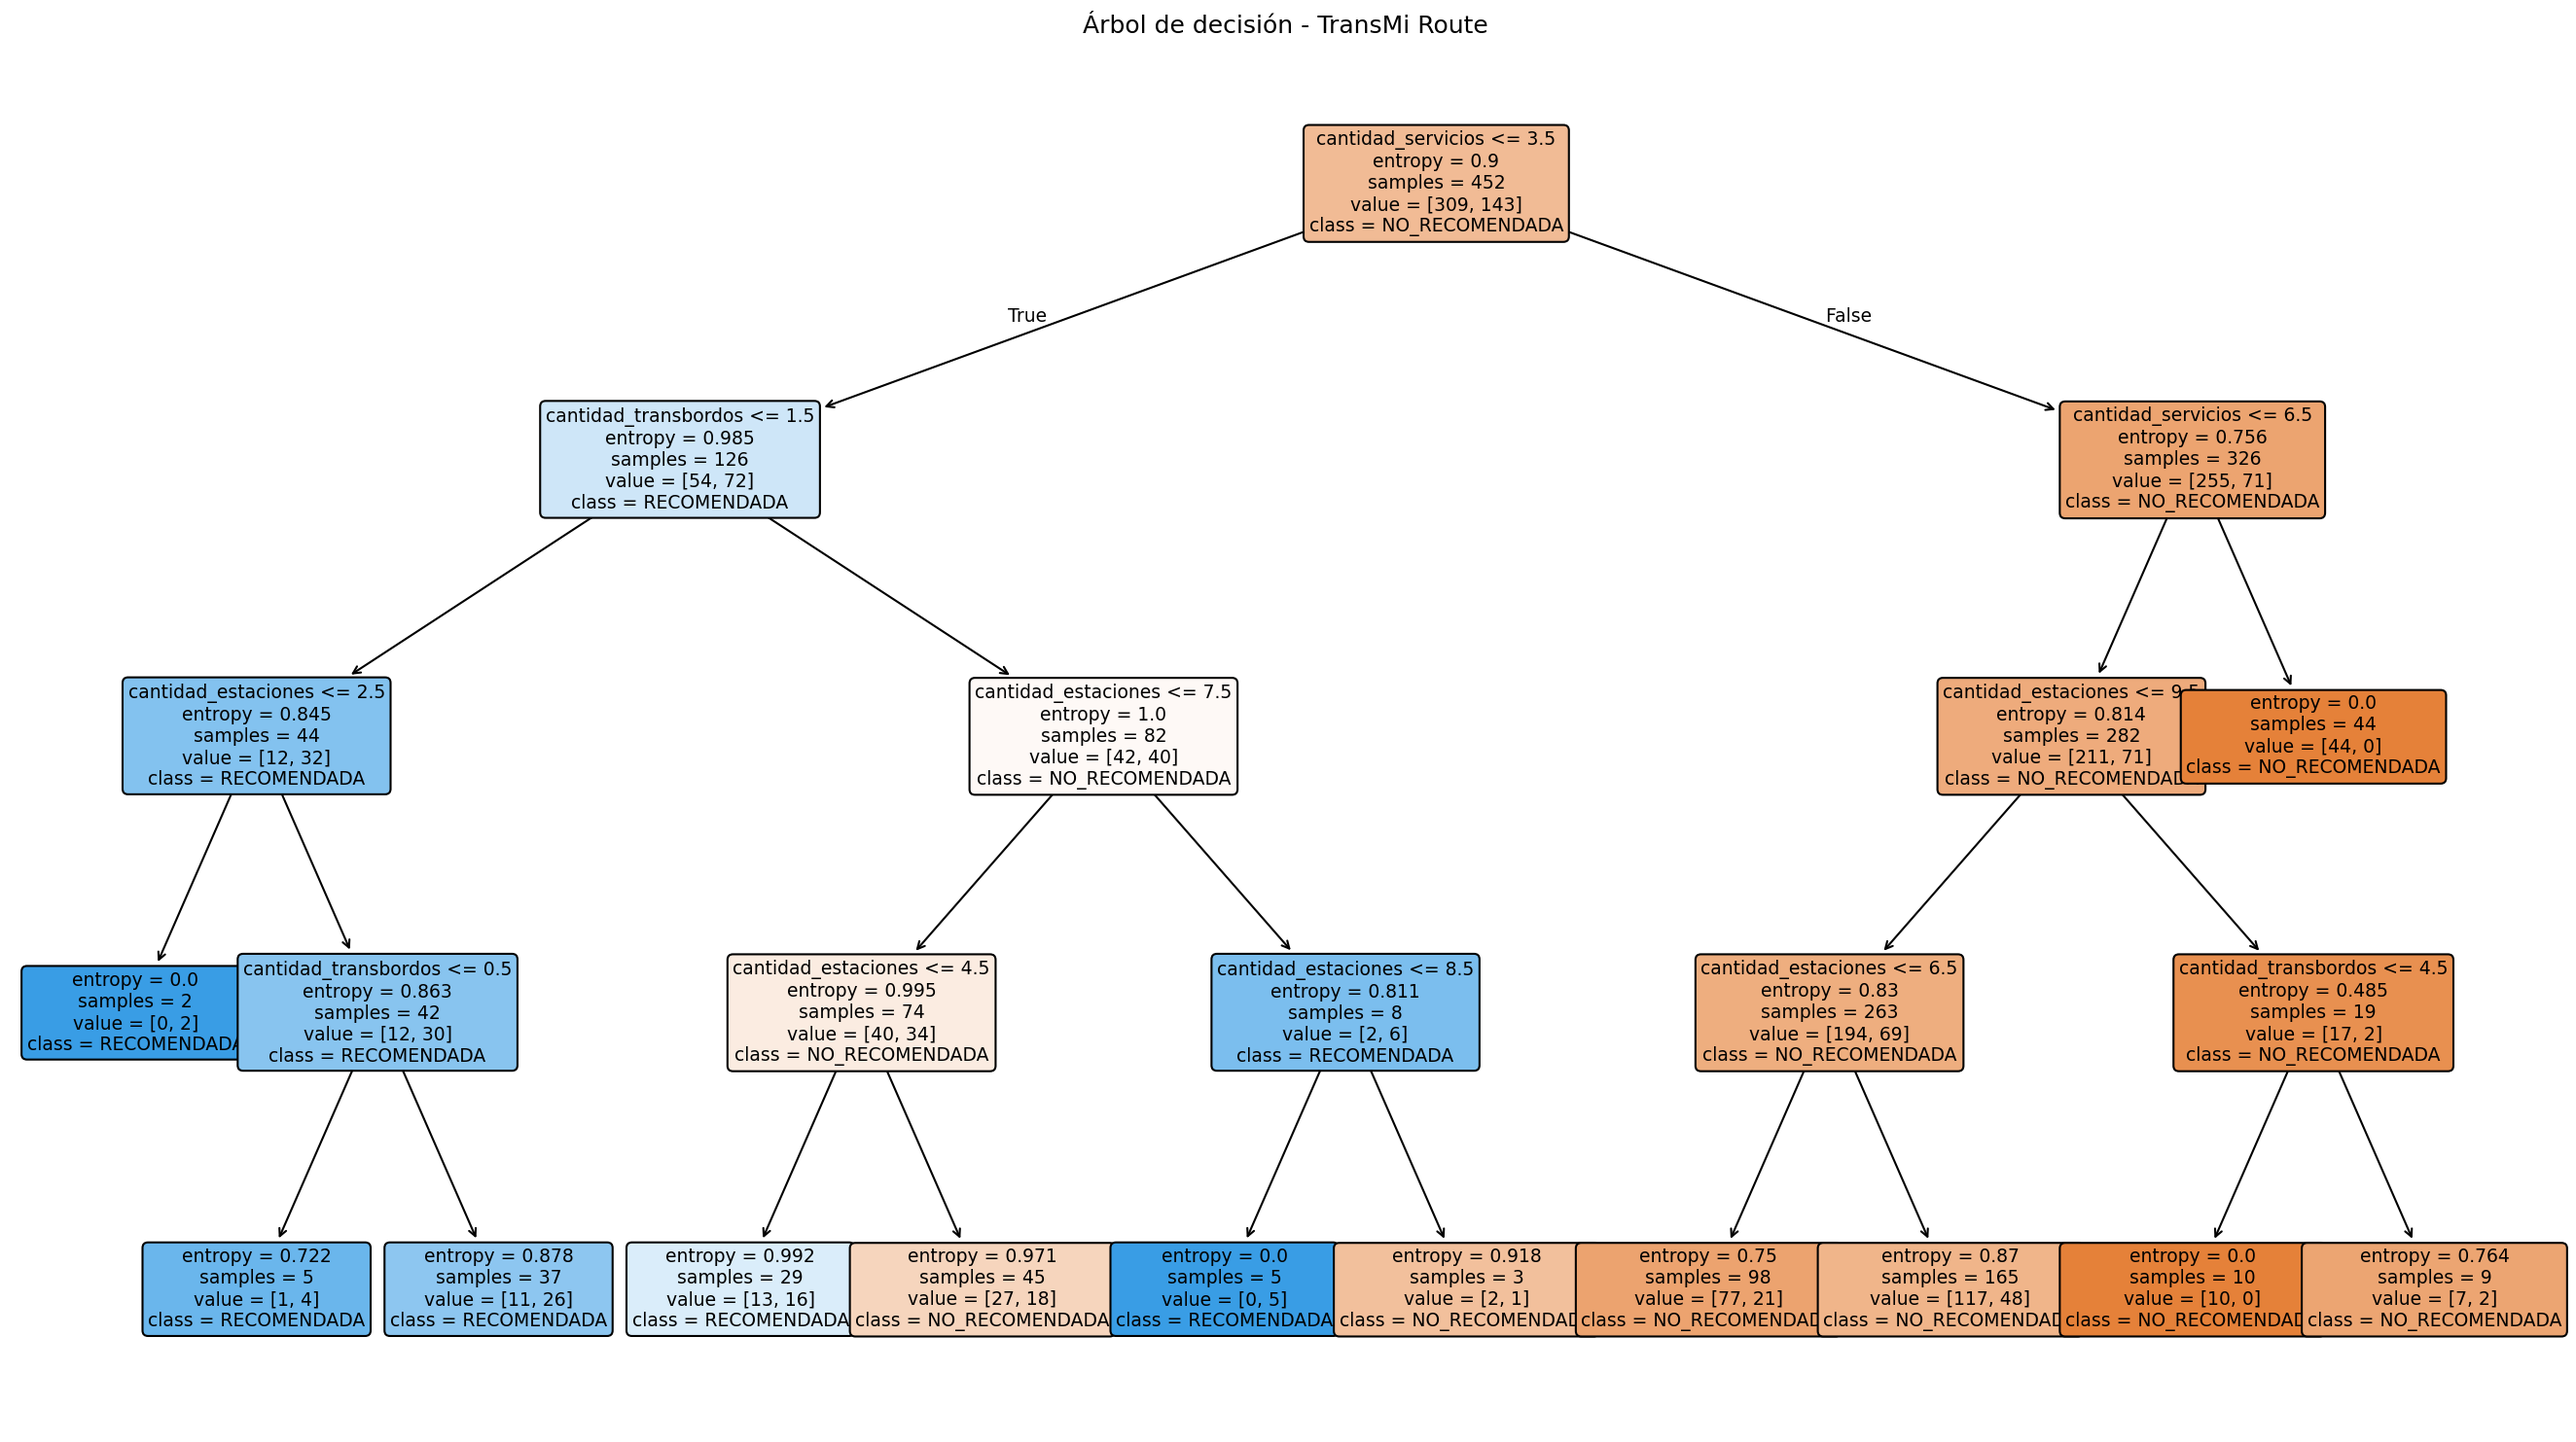
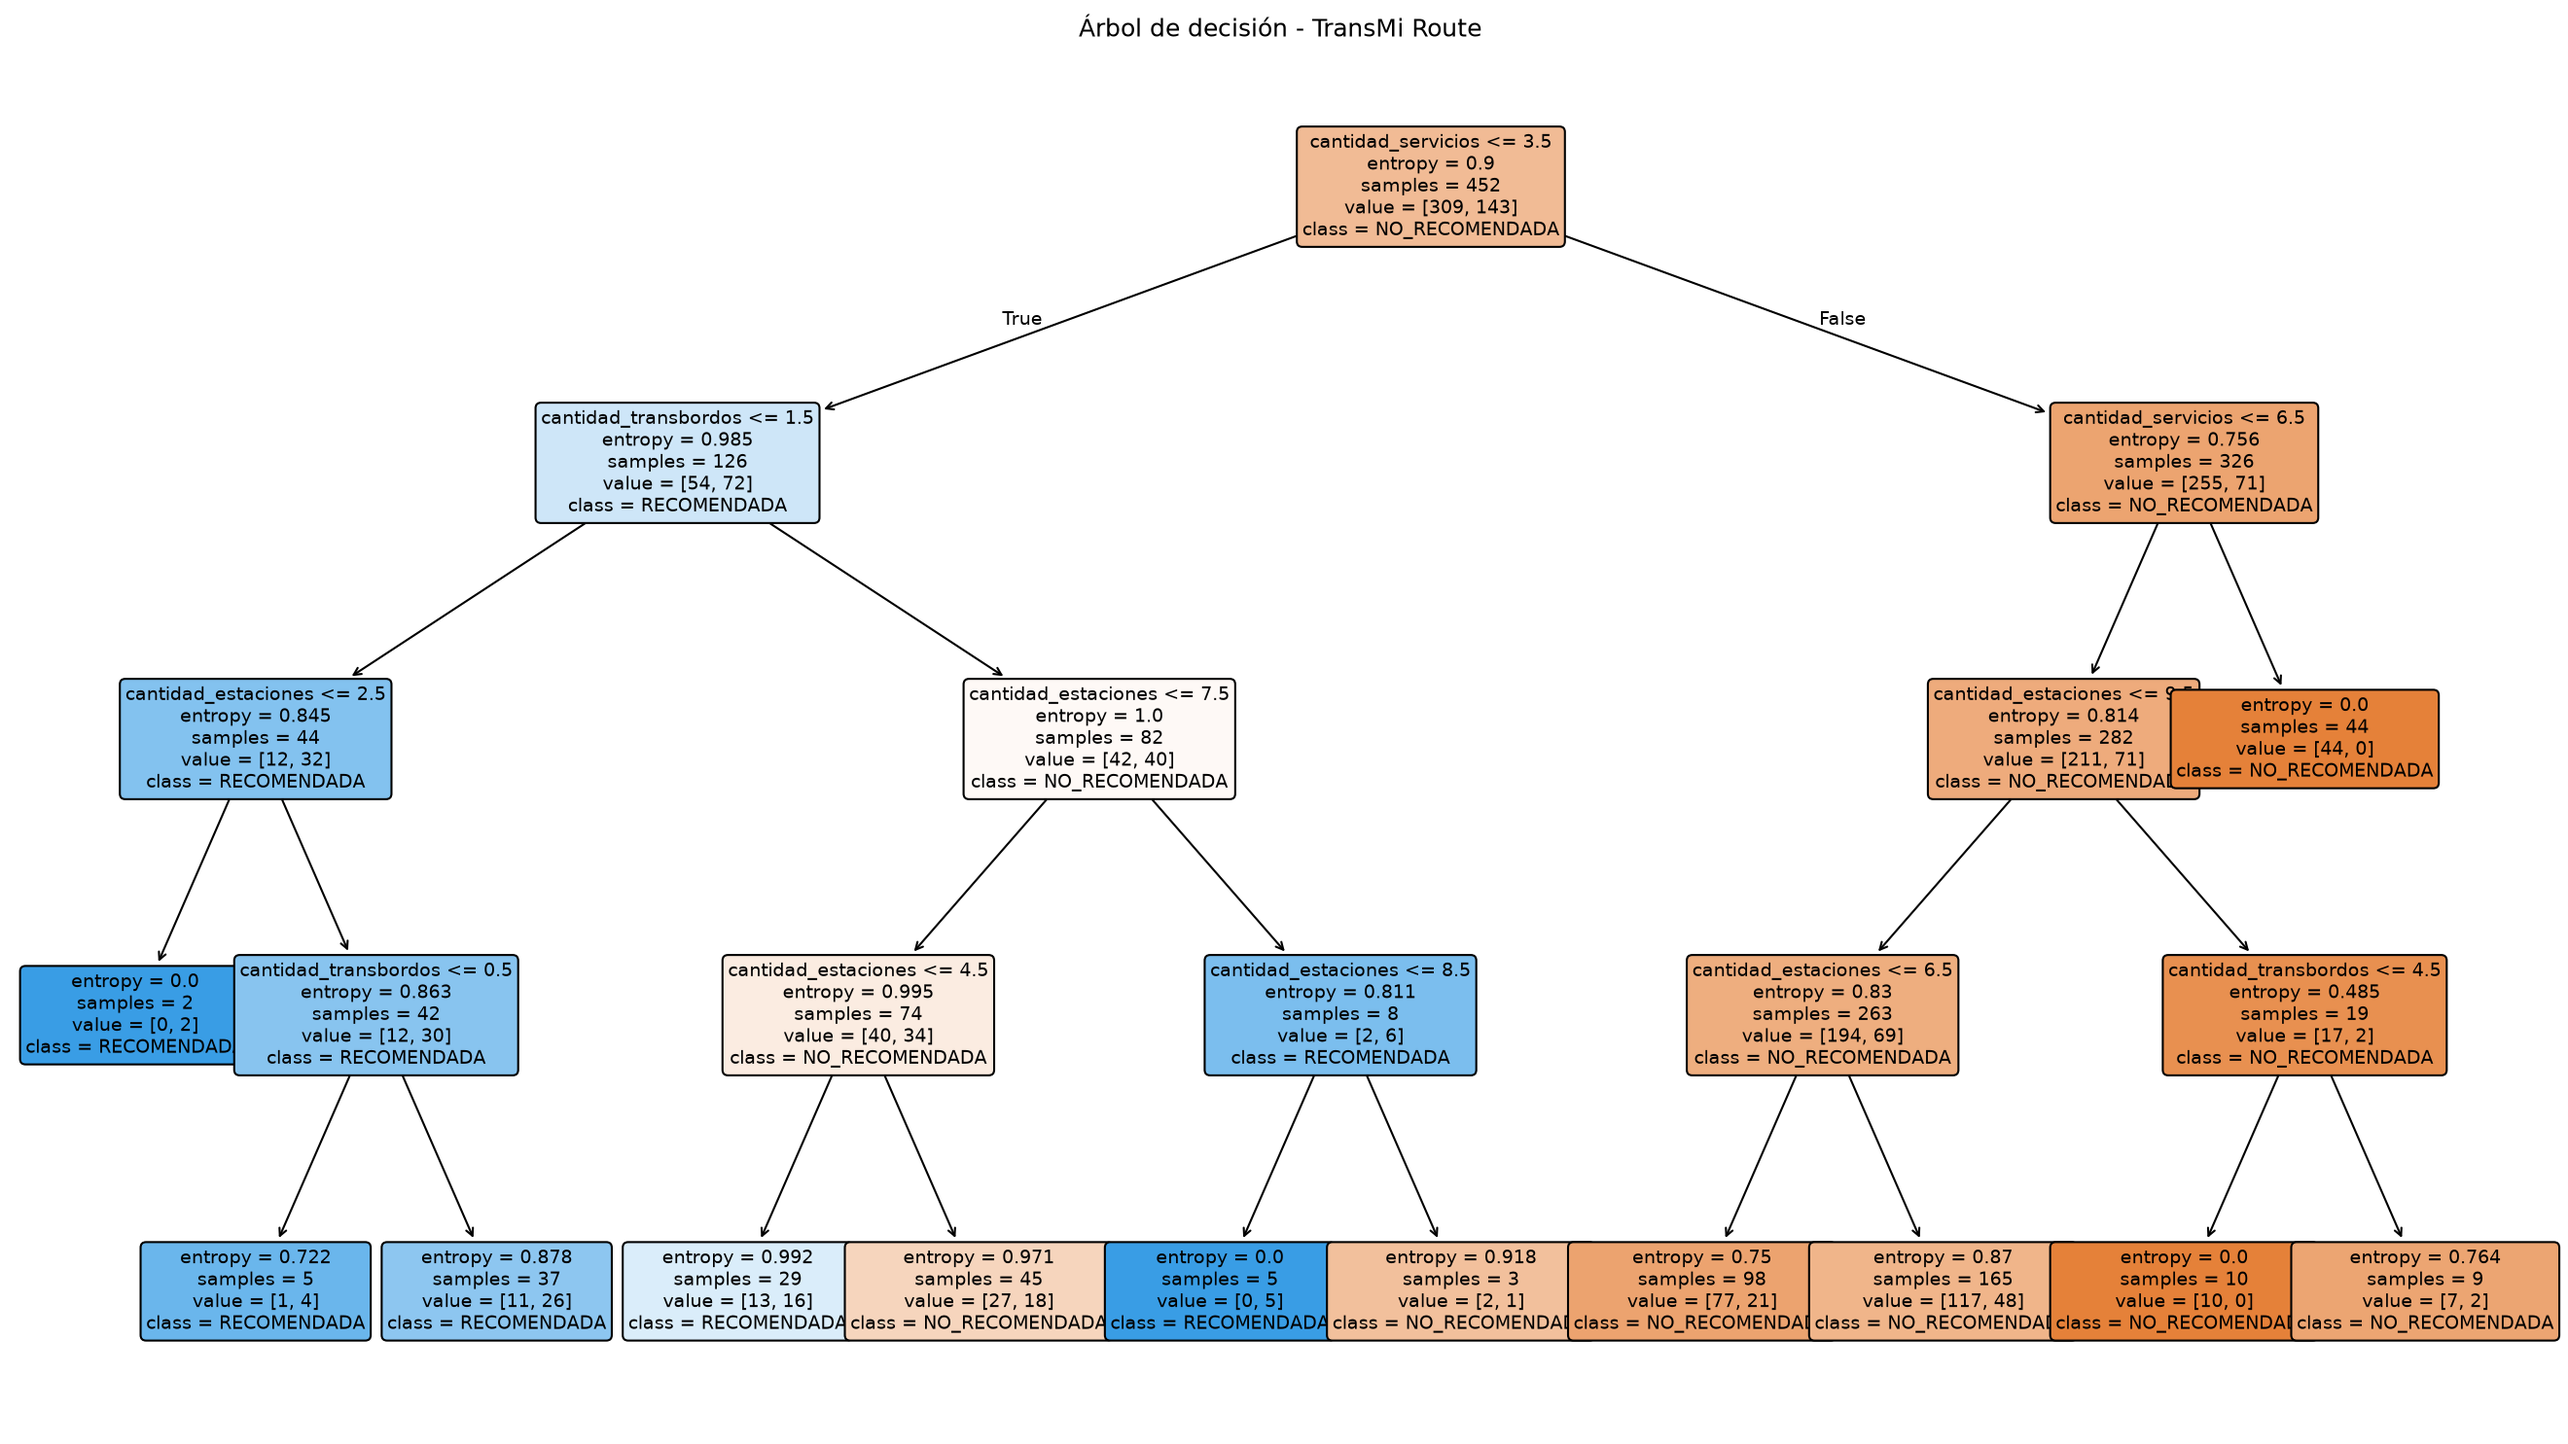
Quinto Commit

diff --git a/Transmi_raoute/tests/test_rutas_ml.py b/Transmi_raoute/tests/test_rutas_ml.py
@@ -1,0 +1,32 @@
+import importlib.util
+import unittest
+from pathlib import Path
+
+
+BASE_DIR = Path(__file__).resolve().parents[1]
+
+
+def _cargar_modulo(nombre_archivo):
+    ruta = BASE_DIR / "src" / "machine_learning" / nombre_archivo
+    spec = importlib.util.spec_from_file_location(nombre_archivo, ruta)
+    modulo = importlib.util.module_from_spec(spec)
+    spec.loader.exec_module(modulo)
+    return modulo
+
+
+class TestRutasML(unittest.TestCase):
+    def test_entrenar_arbol_usa_root_correcto(self):
+        modulo = _cargar_modulo("entrenar_arbol.py")
+
+        self.assertEqual(modulo.ROOT_DIR, BASE_DIR)
+        self.assertTrue(modulo.ARCHIVO_DATASET.exists())
+
+    def test_validar_dataset_usa_root_correcto(self):
+        modulo = _cargar_modulo("validar_dataset.py")
+
+        self.assertEqual(modulo.ROOT_DIR, BASE_DIR)
+        self.assertTrue(modulo.ARCHIVO.exists())
+
+
+if __name__ == "__main__":
+    unittest.main()

diff --git a/Transmi_raoute/src/machine_learning/validar_dataset.py b/Transmi_raoute/src/machine_learning/validar_dataset.py
@@ -6,9 +6,9 @@ from pathlib import Path
 # CONFIGURACIÓN
 # ============================================================
 
-# El proyecto TransMi Route está un nivel por encima de
-# la carpeta machine_learning
-ROOT_DIR = Path(__file__).resolve().parent.parent / "Transmi_raoute"
+# El proyecto TransMi Route está dos niveles por encima
+# de la carpeta machine_learning
+ROOT_DIR = Path(__file__).resolve().parents[2]
 
 ARCHIVO = (
     ROOT_DIR

diff --git a/Transmi_raoute/src/machine_learning/entrenar_arbol.py b/Transmi_raoute/src/machine_learning/entrenar_arbol.py
@@ -18,7 +18,7 @@ from sklearn.metrics import (
 # ============================================================
 
 # Ubicación del proyecto
-ROOT_DIR = Path(__file__).resolve().parent.parent / "Transmi_raoute"
+ROOT_DIR = Path(__file__).resolve().parents[2]
 
 # Dataset
 ARCHIVO_DATASET = (
